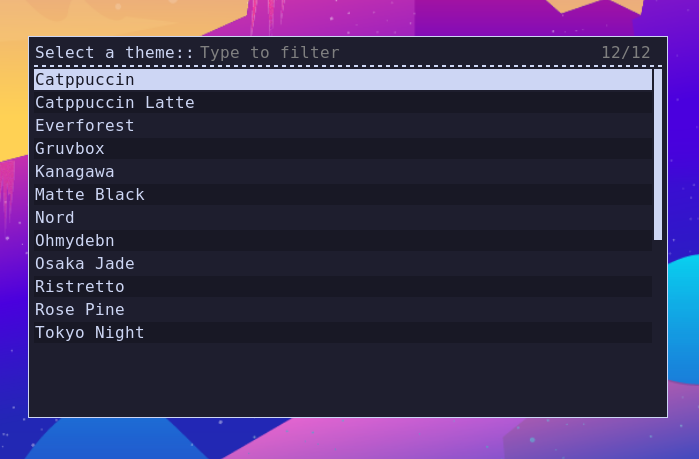
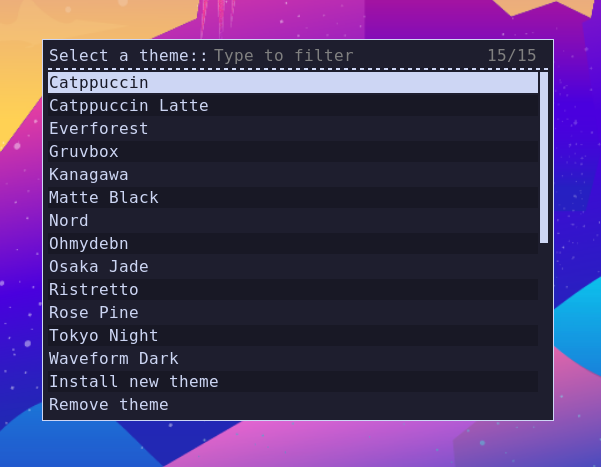
update theme screenshot and verbiage

Changed region(s): [[0.0, 0.0, 1.0, 1.0]]

diff --git a/README.md b/README.md
@@ -243,9 +243,11 @@ To visualize your system audio, press `Ctrl + Shift + A` to launch Cava.
 
 # Desktop Theme
 
-You can change the desktop theme by pressing `Ctrl + Shift + T`. This will bring up a list of installed themes including the default Ohmydebn theme and several themes from Omarchy. If the theme you select has multiple backgrounds, you can switch to the next background by pressing `Ctrl + Shift + B`.
+You can change the desktop theme by pressing `Ctrl + Shift + T`. This will bring up a list of installed themes including the default Ohmydebn theme and several themes from Omarchy. You also have the option of installing new themes or removing any themes that you've installed.
 
 ![OhMyDebn desktop themes](images/ohmydebn-theme-set-gui.png)
+
+Some themes include multiple background options. If the theme you select has multiple backgrounds, you can switch to the next background by pressing `Ctrl + Shift + B`.
 
 Catppuccin theme:
 
